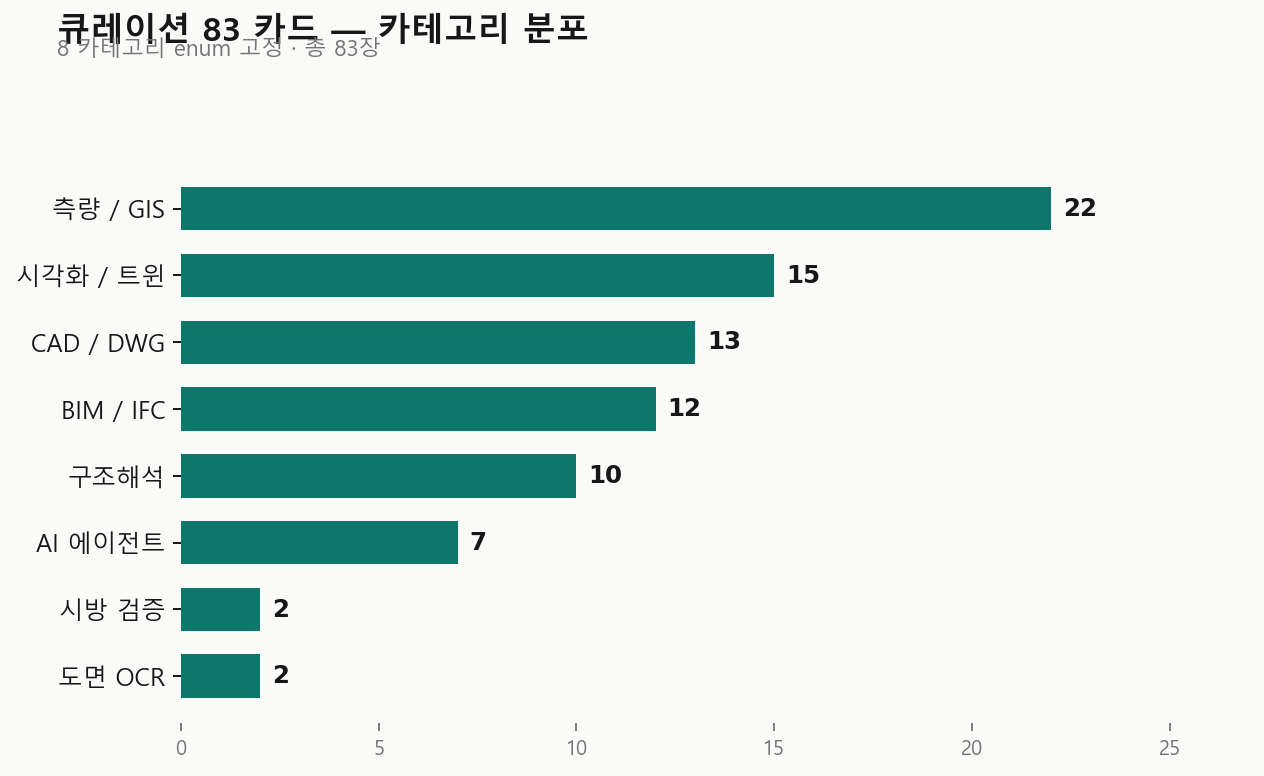
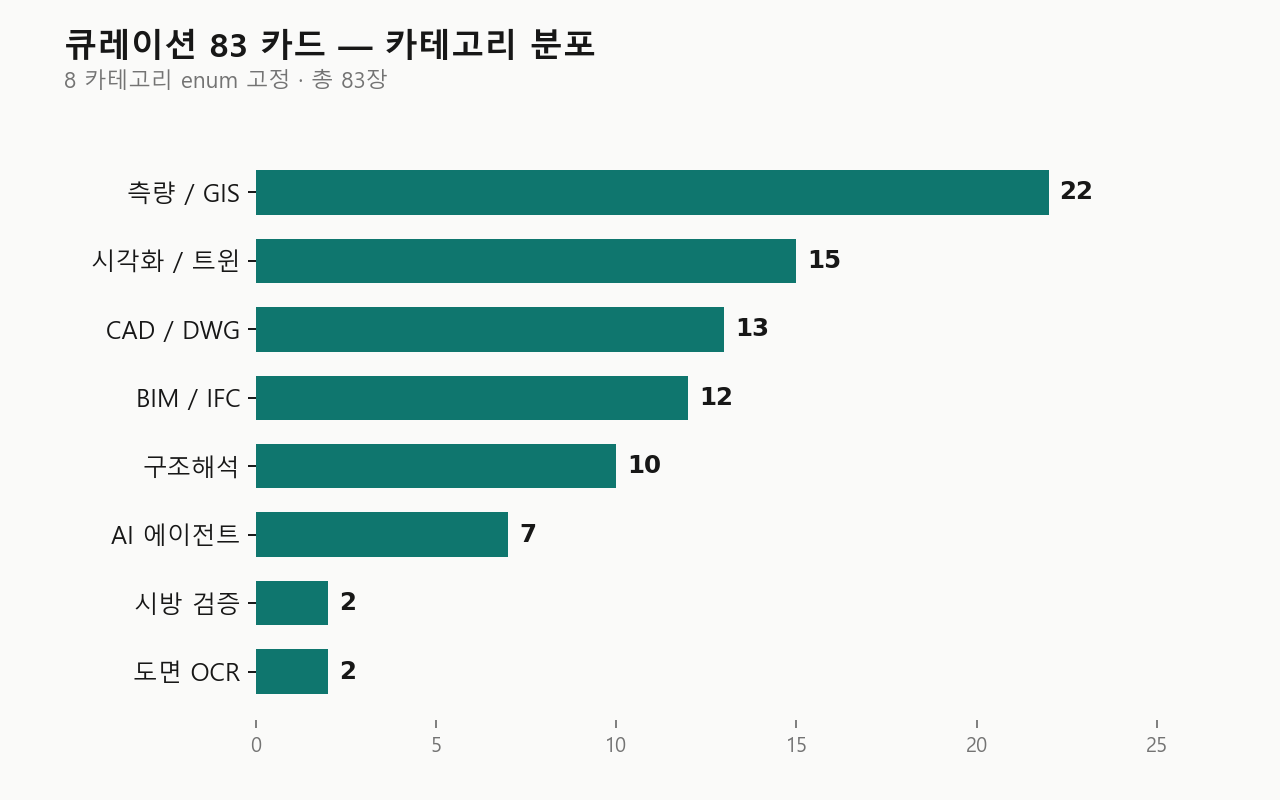
[charts] 제목/부제목 겹침 수정 — bbox_inches=tight 제거 + subplots_adjust 명시

diff --git a/charts/generate.py b/charts/generate.py
@@ -89,15 +89,15 @@ def funnel_chart():
     )
     fig.text(
         0.05,
-        0.91,
+        0.89,
         "2,108 후보 → 83 큐레이션 (자동 2,059 + 수동 시드 49)",
         fontsize=10,
         color=MUTED,
     )
 
-    plt.tight_layout(rect=(0, 0, 1, 0.88))
+    fig.subplots_adjust(top=0.82, bottom=0.10, left=0.18, right=0.96)
     out = DIR / "funnel.png"
-    plt.savefig(out, dpi=160, facecolor=BG, bbox_inches="tight")
+    plt.savefig(out, dpi=160, facecolor=BG)
     plt.close()
     print(f"wrote {out}")
 
@@ -163,10 +163,10 @@ def category_chart():
         fontweight="bold",
         color=FG,
     )
-    fig.text(0.05, 0.91, f"8 카테고리 enum 고정 · 총 {sum(values)}장", fontsize=10, color=MUTED)
-    plt.tight_layout(rect=(0, 0, 1, 0.88))
+    fig.text(0.05, 0.89, f"8 카테고리 enum 고정 · 총 {sum(values)}장", fontsize=10, color=MUTED)
+    fig.subplots_adjust(top=0.82, bottom=0.10, left=0.20, right=0.96)
     out = DIR / "category.png"
-    plt.savefig(out, dpi=160, facecolor=BG, bbox_inches="tight")
+    plt.savefig(out, dpi=160, facecolor=BG)
     plt.close()
     print(f"wrote {out}")
 
@@ -230,7 +230,7 @@ def sources_chart():
     fig.suptitle(
         "후보 발굴 출처",
         x=0.05,
-        y=0.94,
+        y=0.95,
         ha="left",
         fontsize=15,
         fontweight="bold",
@@ -238,14 +238,14 @@ def sources_chart():
     )
     fig.text(
         0.05,
-        0.88,
+        0.86,
         "한 후보가 여러 출처에 잡힐 수 있음 (corroboration = 신호 강도)",
         fontsize=10,
         color=MUTED,
     )
-    plt.tight_layout(rect=(0, 0, 1, 0.85))
+    fig.subplots_adjust(top=0.76, bottom=0.14, left=0.22, right=0.96)
     out = DIR / "sources.png"
-    plt.savefig(out, dpi=160, facecolor=BG, bbox_inches="tight")
+    plt.savefig(out, dpi=160, facecolor=BG)
     plt.close()
     print(f"wrote {out}")
 
